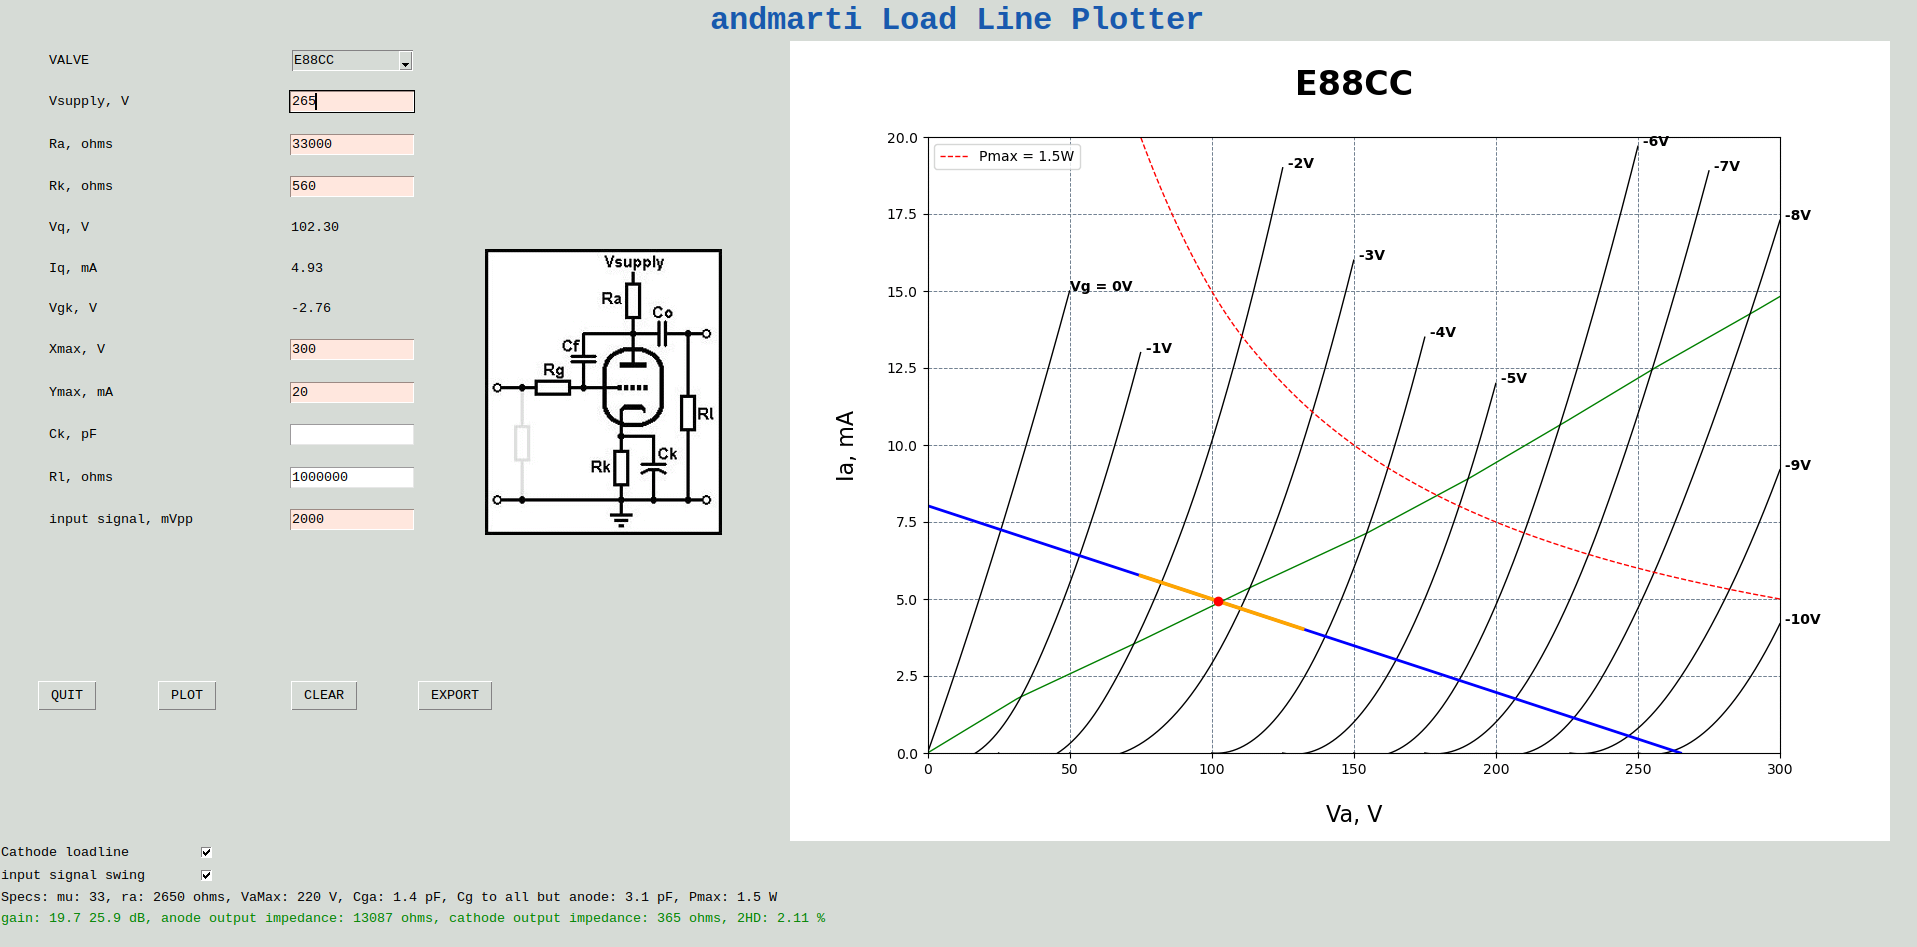
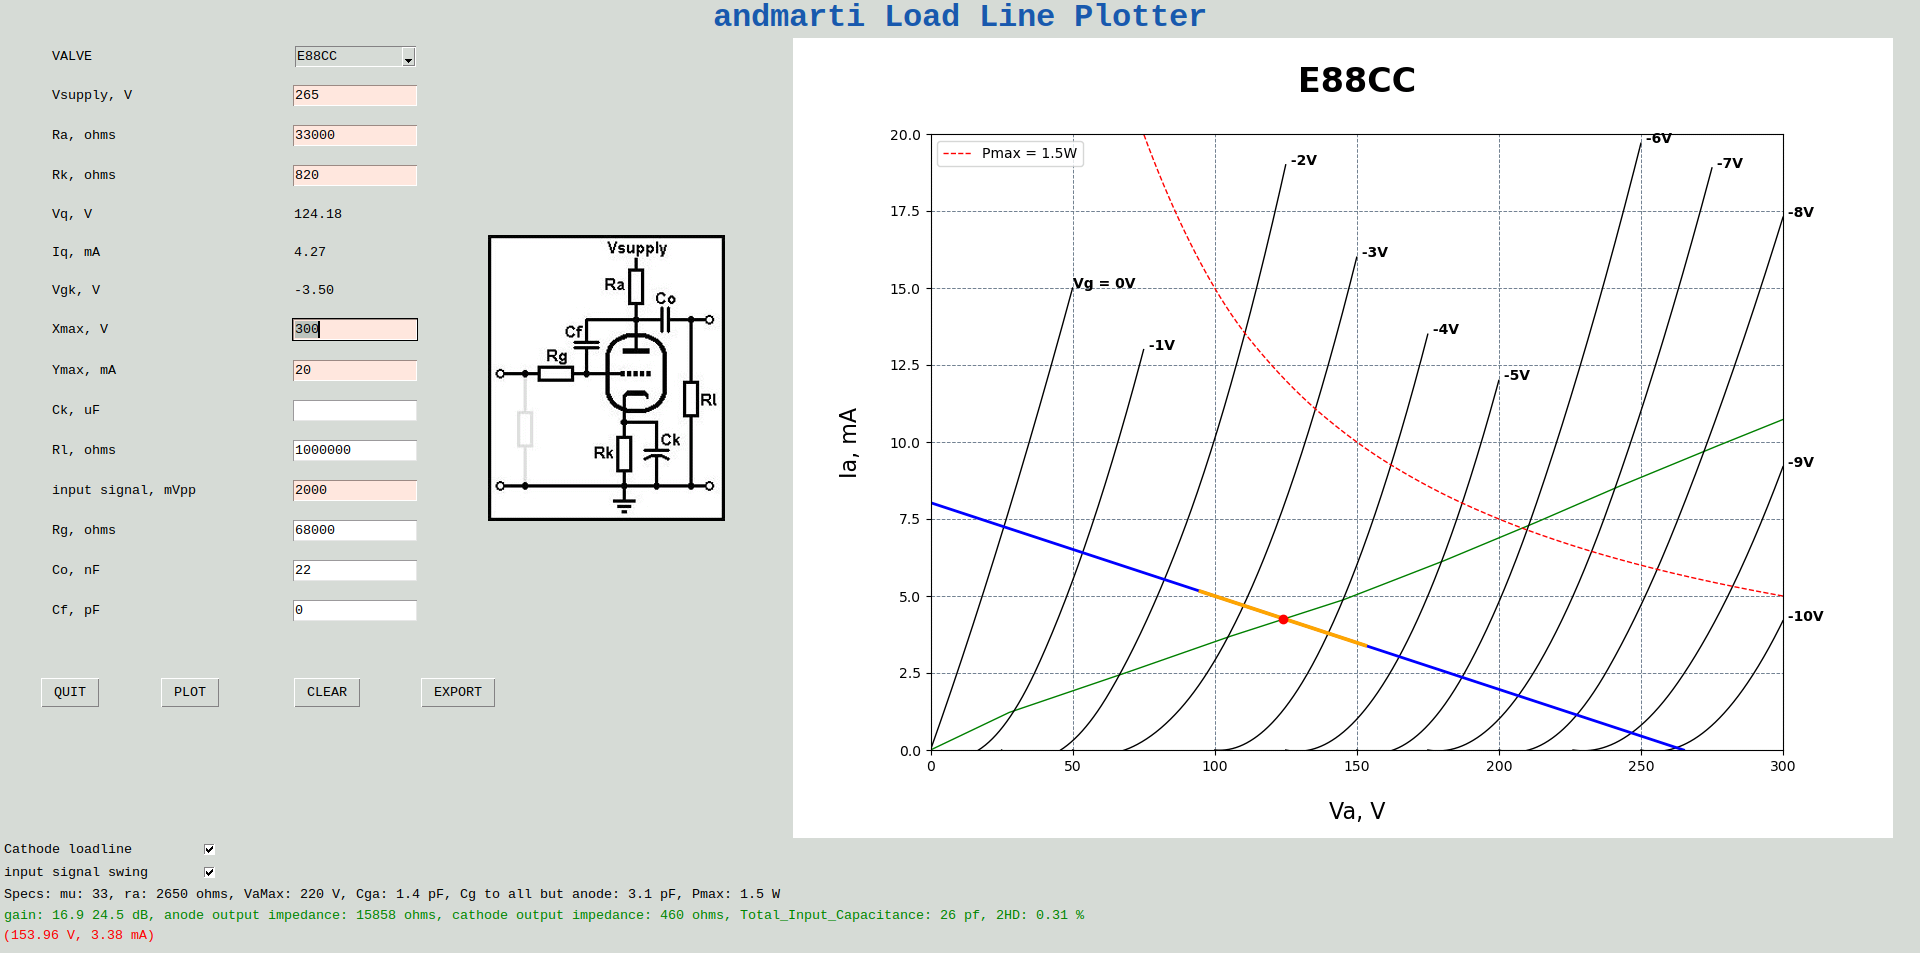
added input capacitance

diff --git a/allplotter.py b/allplotter.py
@@ -1,11 +1,9 @@
 """
 TODO
 ----
-Cf Rg Co
-add capacitance
 freq. response calculations
 refresh lines without refreshing whole plot
-export
+export df's
 """
 import pandas as pd
 import numpy as np
@@ -28,6 +26,10 @@ DEFAULT_INPUTSIGNAL = 2000
 DEFAULT_XMAX = 300
 DEFAULT_YMAX = 10
 DEFAULT_RL = 1000000
+DEFAULT_CO = 22
+DEFAULT_CK = 1
+DEFAULT_RG = 68000
+DEFAULT_CF = 0
 
 class mclass:
     def __init__(self,  window):
@@ -46,6 +48,25 @@ class mclass:
         window.columnconfigure(3, weight=1)
         window.columnconfigure(4, weight=1)
 
+        # title
+        self.title = Label(window, text='andmarti Load Line Plotter', fg='#1C5AAC', font=('Courier New', 24, 'bold'))
+        self.title.grid(row=0, column=0, columnspan=5, padx=10, sticky=N)
+
+        # circuit
+        io = Image.open('images/circuit.jpg')
+        self.img = ImageTk.PhotoImage(io)
+        self.circuit = Label(window, image=self.img)
+        self.circuit.grid(row=6, column=2, rowspan=10, sticky=N)
+
+        # plot
+        self.canvas = FigureCanvasTkAgg(self.fig, master=self.window)
+        self.canvas.get_tk_widget().grid(row=1, column=4, rowspan=44, columnspan=3, sticky=W, padx=0, pady=0)
+        self.canvas.mpl_connect('motion_notify_event', self.motion_hover)
+        self.ax.grid(which="both", axis='both', color='slategray', linestyle='--', linewidth=0.7)
+        self.ax.set_ylabel('Ia, mA', fontsize=16, loc='center', labelpad=20)
+        self.ax.set_xlabel('Va, V', fontsize=16, loc='center',  labelpad=20)
+
+        # valve
         self.lbl_valve = Label(window, text="VALVE", font=('Courier New', 10), background=self.window['bg'])
         self.lbl_valve.grid(row=1, column=0, sticky=W, padx=50, pady=5)
         self.str_valve = StringVar()
@@ -55,6 +76,7 @@ class mclass:
         self.cmb_valve.grid(row=1, column=1, sticky=W, padx=5, pady=5)
         self.cmb_valve.bind('<<ComboboxSelected>>', self.valve_changed)
 
+        # Vs
         self.lbl_supply = Label(window, text="Vsupply, V", font=('Courier New', 10), background=self.window['bg'], width=20, anchor='w')
         self.lbl_supply.grid(row=2, column=0, rowspan=1, sticky=W, padx=50, pady=5)
         self.str_supply = StringVar()
@@ -108,9 +130,10 @@ class mclass:
         self.etr_Ymax = Entry(window, textvariable=self.str_Ymax, font=('Courier New', 10), width=15, background='misty rose')
         self.etr_Ymax.grid(row=9, column=1, rowspan=1, sticky=W, padx=2, pady=5)
 
-        self.lbl_ck = Label(window, text="Ck, pF", font=('Courier New', 10), background=self.window['bg'])
+        self.lbl_ck = Label(window, text="Ck, uF", font=('Courier New', 10), background=self.window['bg'])
         self.lbl_ck.grid(row=10, column=0, rowspan=1, sticky=W, padx=50, pady=5)
         self.str_ck = StringVar()
+        self.str_ck.set(DEFAULT_CK)
         self.etr_ck = Entry(window, textvariable=self.str_ck, font=('Courier New', 10), width=15)
         self.etr_ck.grid(row=10, column=1, rowspan=1, sticky=W, padx=2, pady=5)
 
@@ -121,6 +144,7 @@ class mclass:
         self.etr_rl = Entry(window, textvariable=self.str_rl, font=('Courier New', 10), width=15)
         self.etr_rl.grid(row=11, column=1, rowspan=1, sticky=W, padx=2, pady=5)
 
+        # input signal
         self.lbl_inputsignal = Label(window, text="input signal, mVpp", font=('Courier New', 10), background=self.window['bg'], width=18)
         self.lbl_inputsignal.grid(row=12, column=0, rowspan=1, sticky=W, padx=50, pady=5)
         self.str_inputsignal = StringVar()
@@ -128,23 +152,30 @@ class mclass:
         self.etr_inputsignal = Entry(window, textvariable=self.str_inputsignal, font=('Courier New', 10), width=15, background='misty rose')
         self.etr_inputsignal.grid(row=12, column=1, rowspan=1, sticky=W, padx=2, pady=5)
 
-        # title
-        self.title = Label(window, text='andmarti Load Line Plotter', fg='#1C5AAC', font=('Courier New', 24, 'bold'))
-        self.title.grid(row=0, column=0, columnspan=5, padx=10, sticky=N)
+        # Rg
+        self.lbl_rg = Label(window, text="Rg, ohms", font=('Courier New', 10), background=self.window['bg'])
+        self.lbl_rg.grid(row=13, column=0, rowspan=1, sticky=W, padx=50, pady=5)
+        self.str_rg = StringVar()
+        self.str_rg.set(DEFAULT_RG)
+        self.etr_rg = Entry(window, textvariable=self.str_rg, font=('Courier New', 10), width=15)
+        self.etr_rg.grid(row=13, column=1, rowspan=1, sticky=W, padx=2, pady=5)
 
-        # circuit
-        io = Image.open('images/circuit.jpg')
-        self.img = ImageTk.PhotoImage(io)
-        self.circuit = Label(window, image=self.img)
-        self.circuit.grid(row=6, column=2, rowspan=10, sticky=N)
+        # Co
+        self.lbl_co = Label(window, text="Co, nF", font=('Courier New', 10), background=self.window['bg'])
+        self.lbl_co.grid(row=14, column=0, rowspan=1, sticky=W, padx=50, pady=5)
+        self.str_co = StringVar()
+        self.str_co.set(DEFAULT_CO)
+        self.etr_co = Entry(window, textvariable=self.str_co, font=('Courier New', 10), width=15)
+        self.etr_co.grid(row=14, column=1, rowspan=1, sticky=W, padx=2, pady=5)
 
-        # plot
-        self.canvas = FigureCanvasTkAgg(self.fig, master=self.window)
-        self.canvas.get_tk_widget().grid(row=1, column=4, rowspan=44, columnspan=3, sticky=W, padx=0, pady=0)
-        self.canvas.mpl_connect('motion_notify_event', self.motion_hover)
-        self.ax.grid(which="both", axis='both', color='slategray', linestyle='--', linewidth=0.7)
-        self.ax.set_ylabel('Ia, mA', fontsize=16, loc='center', labelpad=20)
-        self.ax.set_xlabel('Va, V', fontsize=16, loc='center',  labelpad=20)
+        # Cf
+        self.lbl_cf = Label(window, text="Cf, pF", font=('Courier New', 10), background=self.window['bg'])
+        self.lbl_cf.grid(row=15, column=0, rowspan=1, sticky=W, padx=50, pady=5)
+        self.str_cf = StringVar()
+        self.str_cf.set(DEFAULT_CF)
+        self.etr_cf = Entry(window, textvariable=self.str_cf, font=('Courier New', 10), width=15)
+        self.etr_cf.grid(row=15, column=1, rowspan=1, sticky=W, padx=2, pady=5)
+
 
         # bottom frame
         fm = Frame(window)
@@ -218,6 +249,12 @@ class mclass:
         self.etr_rl.bind("<Return>", self.parameters_changed)
         self.etr_ck.bind("<Return>", self.parameters_changed)
         self.etr_inputsignal.bind("<Return>", self.parameters_changed)
+        self.etr_co.bind("<FocusOut>", self.parameters_changed)
+        self.etr_cf.bind("<FocusOut>", self.parameters_changed)
+        self.etr_rg.bind("<FocusOut>", self.parameters_changed)
+        self.etr_co.bind("<Return>", self.parameters_changed)
+        self.etr_cf.bind("<Return>", self.parameters_changed)
+        self.etr_rg.bind("<Return>", self.parameters_changed)
         #end of ui
 
         self.sechd = NONE
@@ -597,20 +634,25 @@ class mclass:
             aoi =(Ra*(ra+(Rk*(mu+1))))/(Ra+ra+(Rk*(mu+1)))
             coi = 1/((1/((Ra+ra)/(mu+1)))+(1/Rk))
             self.str_calculations.set('gain: %.1f %.1f dB, anode output impedance: %d ohms, cathode output impedance: %d ohms' % (g, gdb, aoi, coi))
-            #Cga = self.specs.loc[self.specs['valve']  == valve ]['Cga'].iloc[0]
-            #CgAEA = self.specs.loc[self.specs['valve']  == valve ]['CgAEA'].iloc[0]
-            #cf = float(self.str_cf.get())
-            #total input capacitance = Cgaea +((Cf+Cga)*g)
+            Cga = self.specs.loc[self.specs['valve']  == valve ]['Cga'].iloc[0]
+            CgAEA = self.specs.loc[self.specs['valve']  == valve ]['CgAEA'].iloc[0]
+            Cf = 0
+            if len(self.str_cf.get()) != 0 and self.can_convert_to_float(self.str_cf.get()) == TRUE:
+                Cf = float(self.str_cf.get())
+            total_input_capacitance = CgAEA +((Cf+Cga)*g)
+            self.str_calculations.set(self.str_calculations.get() + ', Total_Input_Capacitance: %d pf' % total_input_capacitance)
         else:
             gcc=(mu*(1/((1/Ra)+(1/Rl))))/((1/((1/Ra)+(1/Rl)))+ra)
             gdb=(math.log10(gcc))*20
             aoi = (Ra*ra)/(Ra+ra)
             self.str_calculations.set('gain: %.1f %.1f dB, anode output impedance: %d ohms' % (gcc, gdb, aoi))
-            #Cga = self.specs.loc[self.specs['valve']  == valve ]['Cga'].iloc[0]
-            #CgAEA = self.specs.loc[self.specs['valve']  == valve ]['CgAEA'].iloc[0]
-            #ck = float(self.str_ck.get())
-            #cf = float(self.str_cf.get())
-            #total input capacitance = Cgaea +((Cf+Cga)*gcc)
+            Cga = self.specs.loc[self.specs['valve']  == valve ]['Cga'].iloc[0]
+            CgAEA = self.specs.loc[self.specs['valve']  == valve ]['CgAEA'].iloc[0]
+            Cf = 0
+            if len(self.str_cf.get()) != 0 and self.can_convert_to_float(self.str_cf.get()) == TRUE:
+                Cf = float(self.str_cf.get())
+            total_input_capacitance = CgAEA +((Cf+Cga)*gcc)
+            self.str_calculations.set(self.str_calculations.get() + ', Total_Input_Capacitance: %d pf' % total_input_capacitance)
 
 
         """
